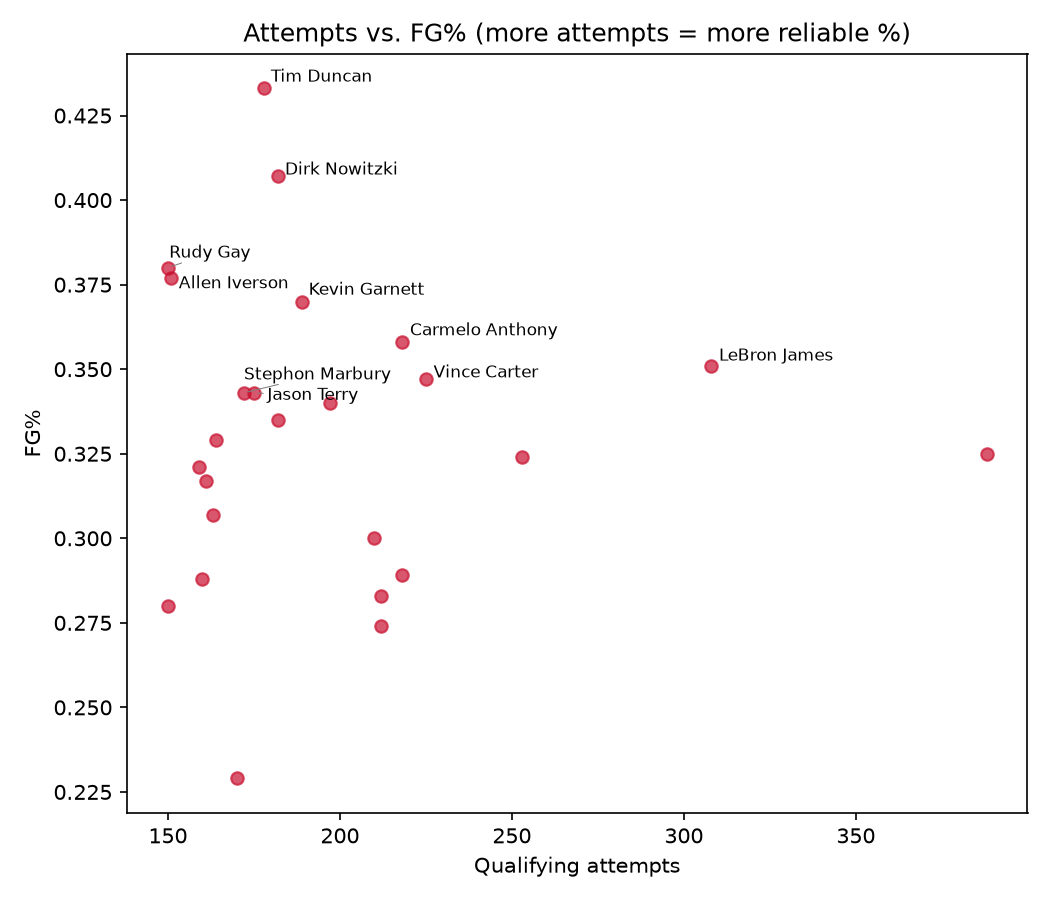
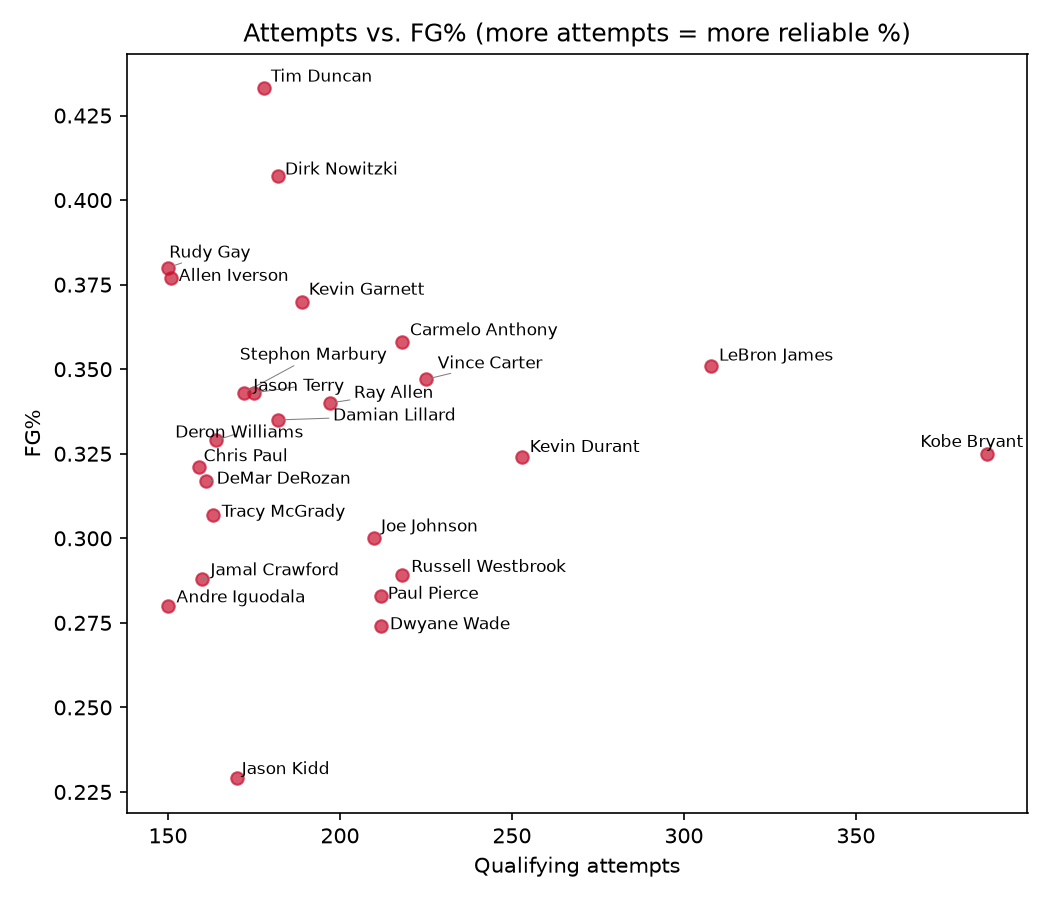
Fixed visualize_results and attempts_vs_fgpct by including the top 25 shooters instead of only top 10

diff --git a/NBA Data Science Project/Nba_Scripts/visualize_results.py b/NBA Data Science Project/Nba_Scripts/visualize_results.py
@@ -41,9 +41,9 @@ def main():
     # Some players land on the exact same point (identical attempts + FG%,
     # i.e. a tie). Merge their names into one label instead of letting
     # adjustText fight to separate two labels that belong at the same spot.
-    top10 = df.head(10).copy()
+    top25 = df.head(25).copy()
     grouped = (
-        top10.groupby(["attempts", "fg_pct"])["player_name"]
+        top25.groupby(["attempts", "fg_pct"])["player_name"]
         .apply(lambda names: " / ".join(names))
         .reset_index()
     )
